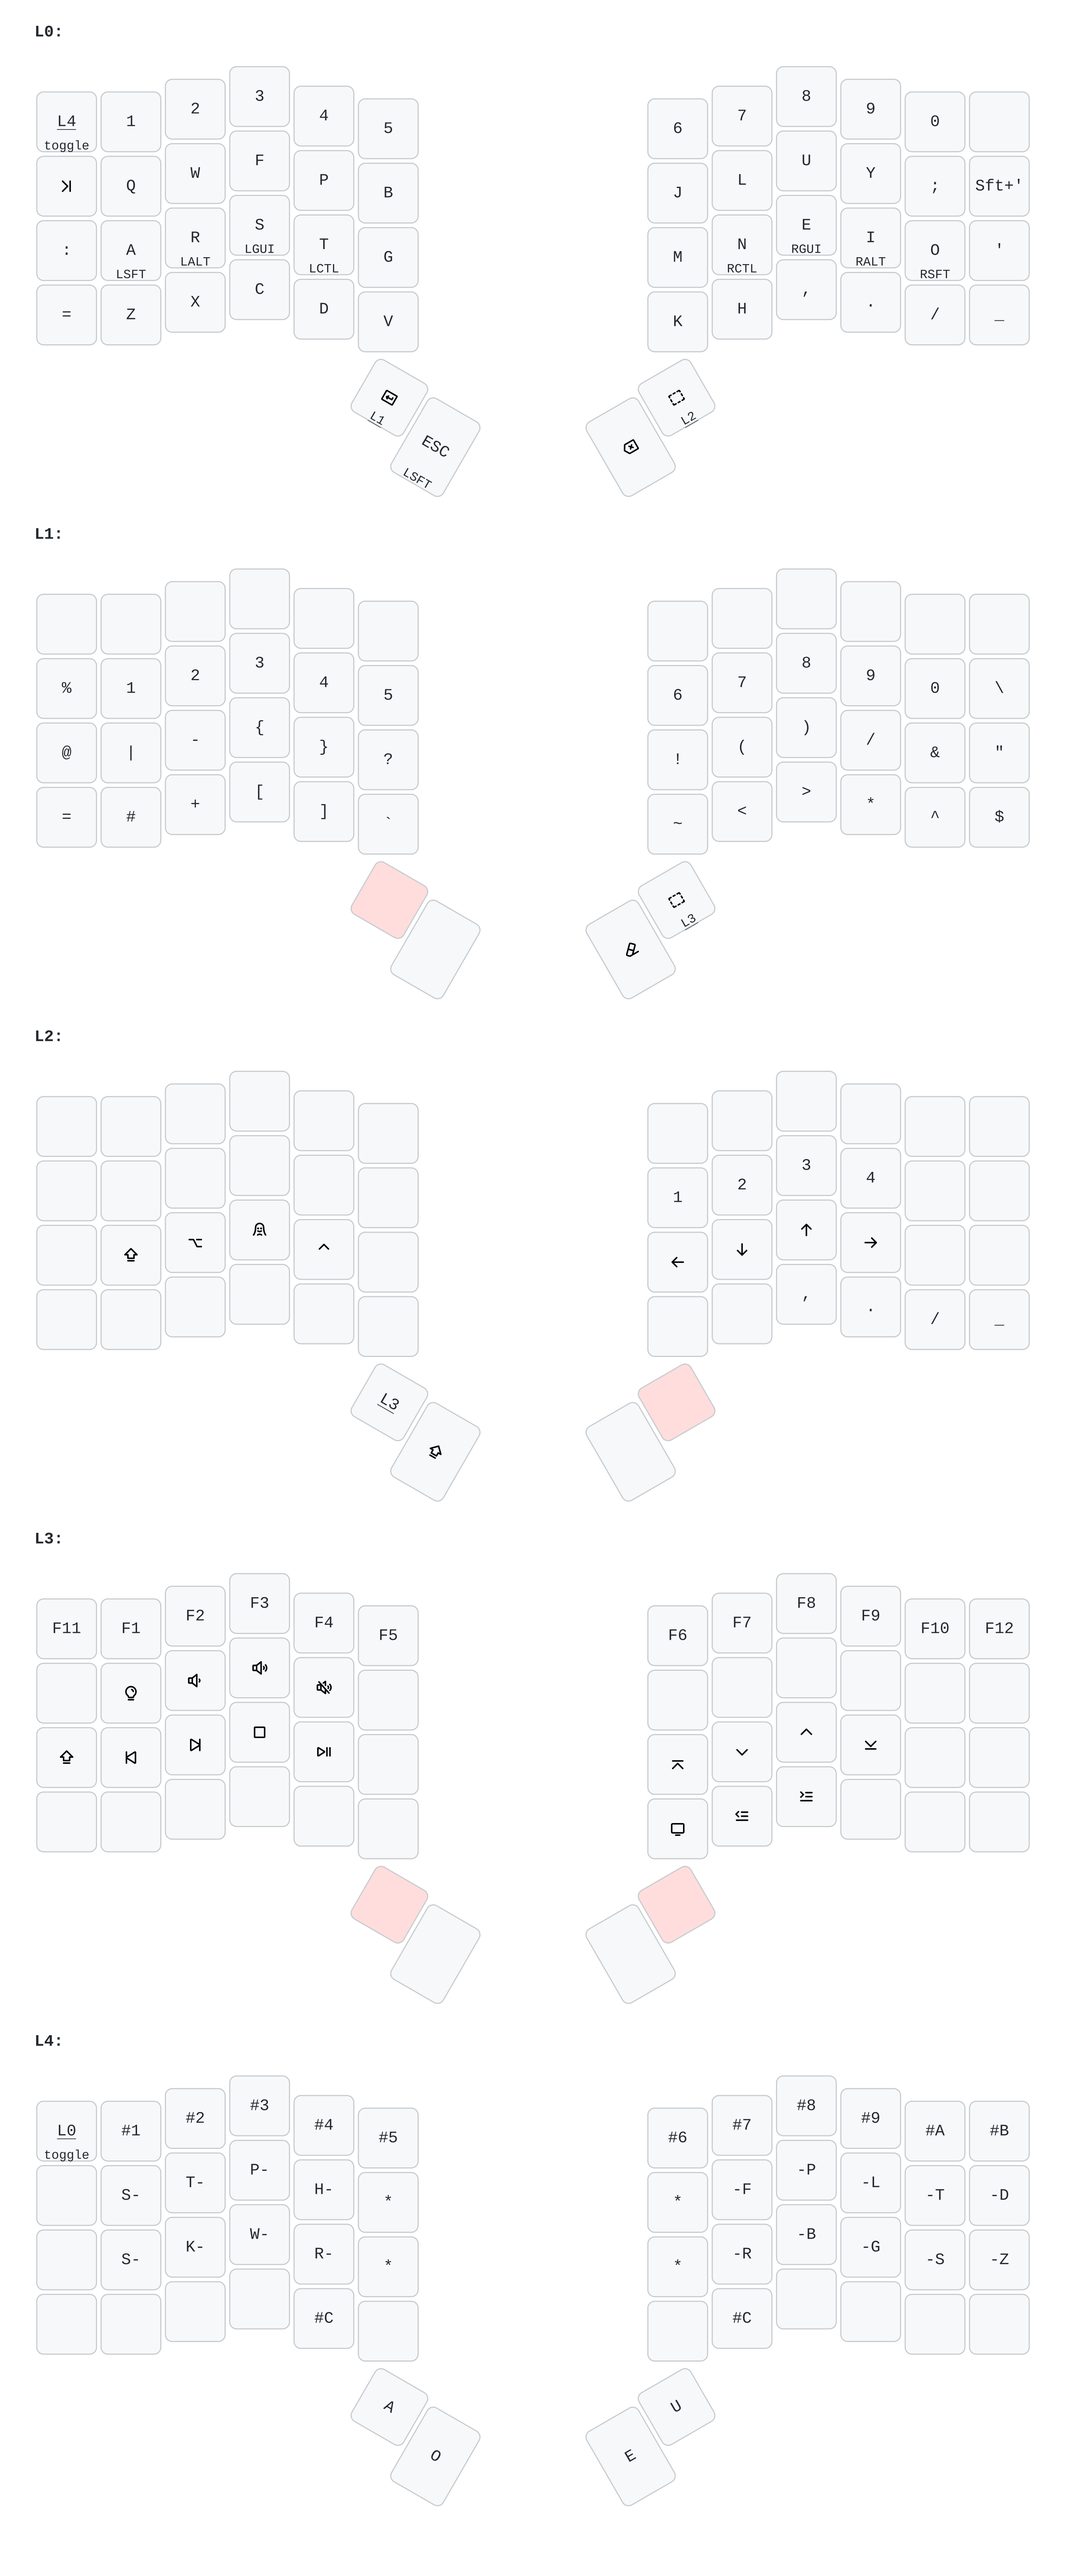
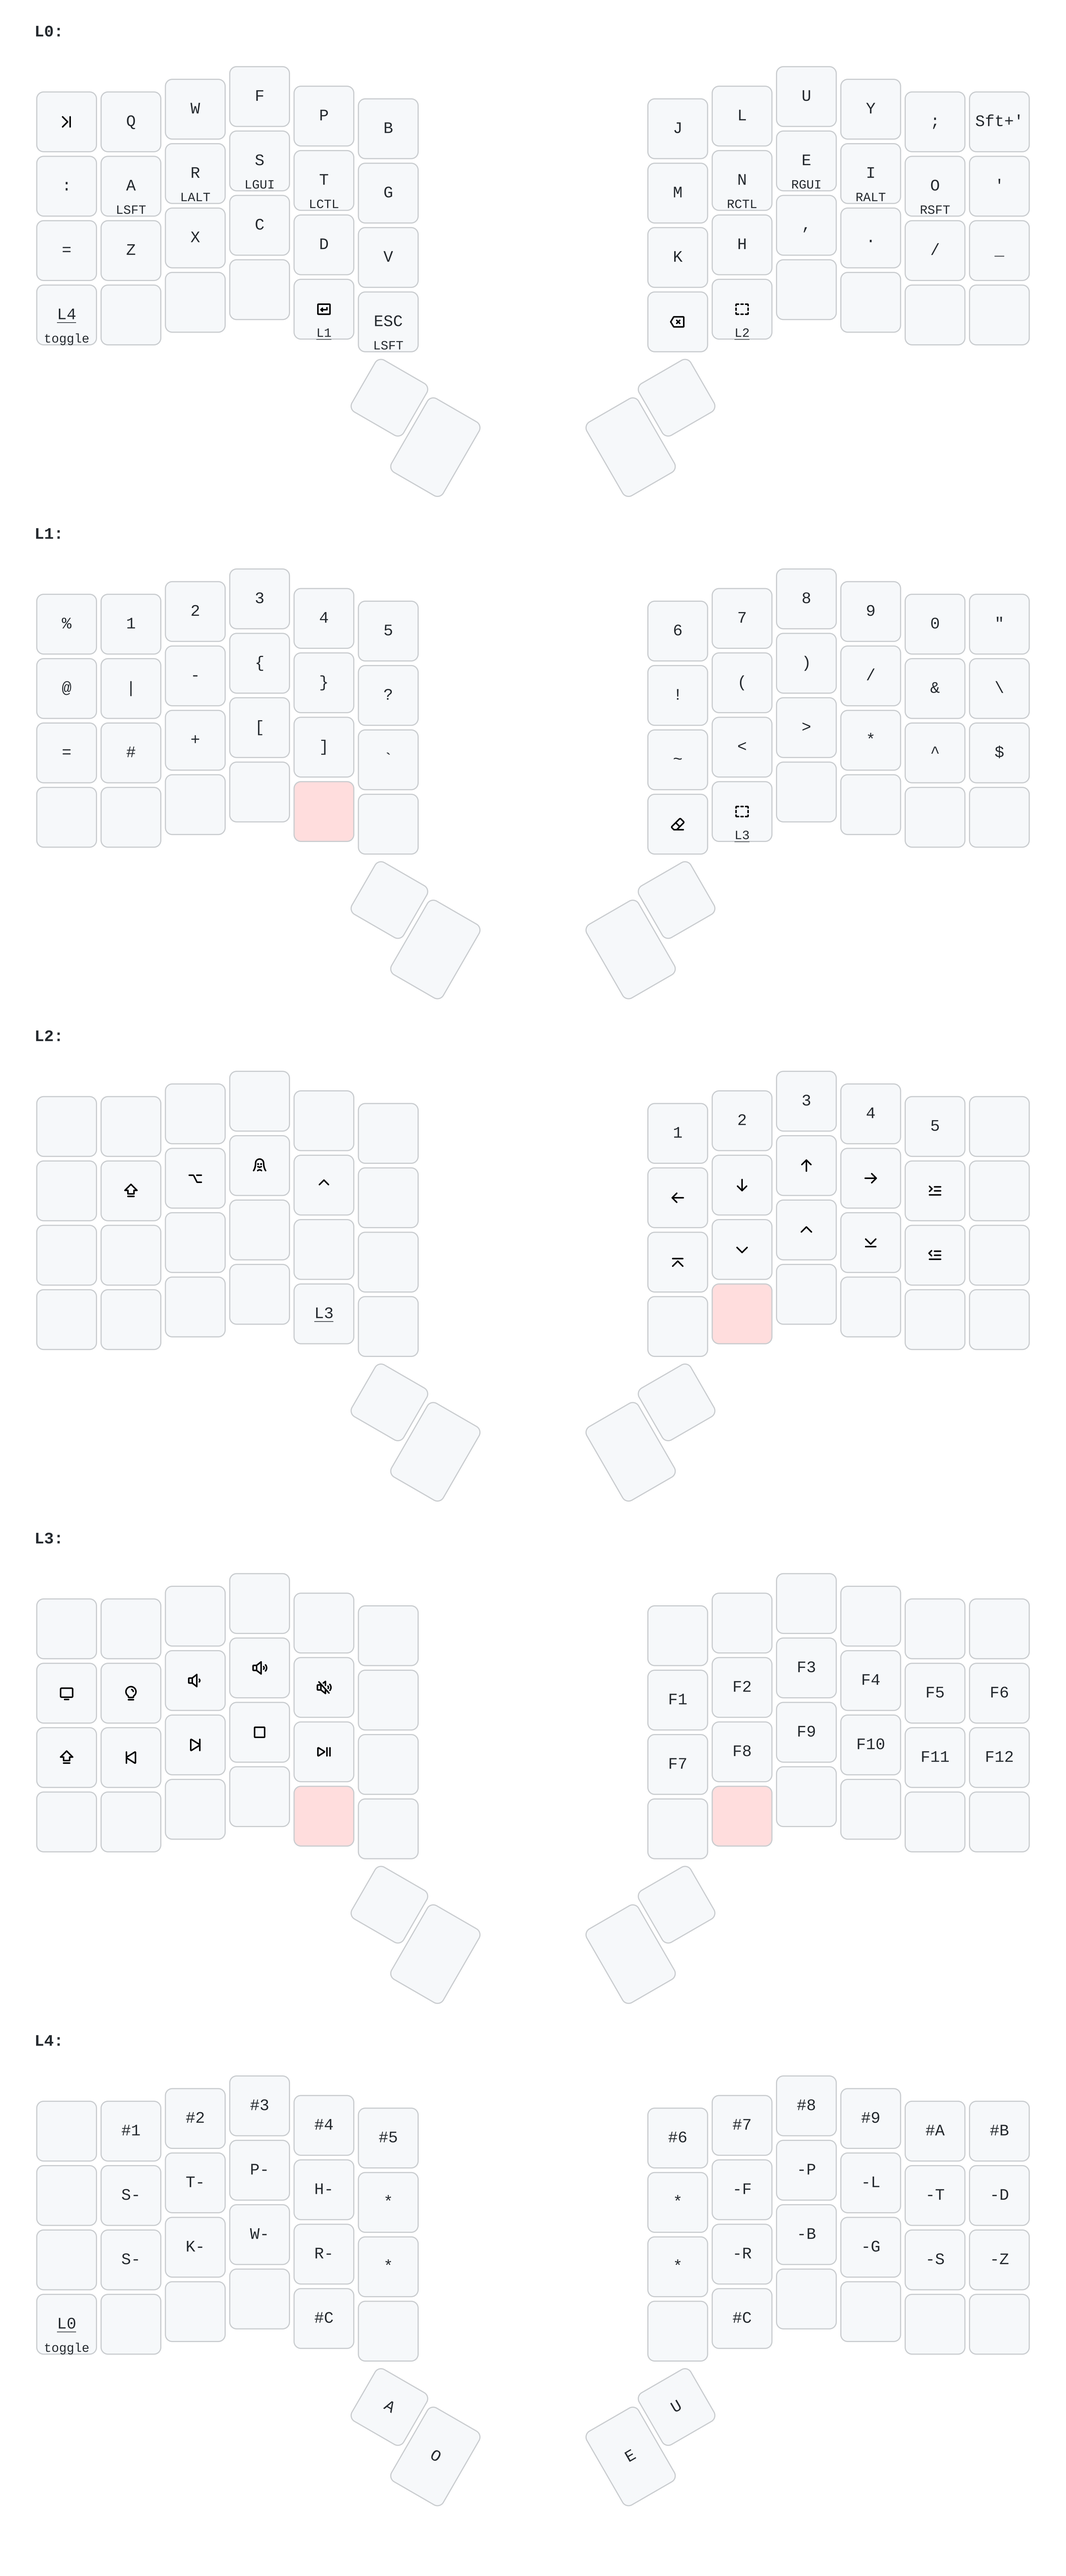
feat: move keys up to have more thumb keys

diff --git a/keyboards/zsa/voyager/keymaps/mine/keymap.c b/keyboards/zsa/voyager/keymaps/mine/keymap.c
@@ -14,42 +14,42 @@ enum Layer {
 // clang-format off
 const uint16_t PROGMEM keymaps[][MATRIX_ROWS][MATRIX_COLS] = {
 [MAIN] = LAYOUT(
-      TO(4)   , KC_1         , KC_2         , KC_3         , KC_4          , KC_5           ,     KC_6    , KC_7          , KC_8         , KC_9         , KC_0         , __        ,
       KC_TAB  , KC_Q         , KC_W         , KC_F         , KC_P          , KC_B           ,     KC_J    , KC_L          , KC_U         , KC_Y         , KC_SEMICOLON , S(KC_QUOT),
       KC_COLN , LSFT_T(KC_A) , LALT_T(KC_R) , LGUI_T(KC_S) , LCTL_T(KC_T)  , KC_G           ,     KC_M    , RCTL_T(KC_N)  , RGUI_T(KC_E) , RALT_T(KC_I) , RSFT_T(KC_O) , KC_QUOT   ,
       KC_EQL  , KC_Z         , KC_X         , KC_C         , KC_D          , KC_V           ,     KC_K    , KC_H          , KC_COMMA     , KC_DOT       , KC_SLSH      , KC_UNDS   ,
-                                                             LT(1, KC_ENT) , LSFT_T(KC_ESC) ,     KC_BSPC , LT(2, KC_SPC)
+      TO(4)   , __           , __           , __           , LT(1, KC_ENT) , LSFT_T(KC_ESC) ,     KC_BSPC , LT(2, KC_SPC) , __           , __           , __           , __        ,
+                                                             __            , __             ,     __      , __
 ),
 
 [SYMBOLS] = LAYOUT(
-      __      , __      , __      , __      , __      , __      ,     __      , __            , __      , __       , __      , __          ,
-      KC_PERC , KC_1    , KC_2    , KC_3    , KC_4    , KC_5    ,     KC_6    , KC_7          , KC_8    , KC_9     , KC_0    , KC_BACKSLASH,
-      KC_AT   , KC_PIPE , KC_MINS , KC_LCBR , KC_RCBR , KC_QUES ,     KC_EXLM , KC_LPRN       , KC_RPRN , KC_SLASH , KC_AMPR , KC_DQUO     ,
+      KC_PERC , KC_1    , KC_2    , KC_3    , KC_4    , KC_5    ,     KC_6    , KC_7          , KC_8    , KC_9     , KC_0    , KC_DQUO     ,
+      KC_AT   , KC_PIPE , KC_MINS , KC_LCBR , KC_RCBR , KC_QUES ,     KC_EXLM , KC_LPRN       , KC_RPRN , KC_SLASH , KC_AMPR , KC_BACKSLASH,
       KC_EQL  , KC_HASH , KC_PLUS , KC_LBRC , KC_RBRC , KC_GRV  ,     KC_TILD , KC_LABK       , KC_RABK , KC_ASTR  , KC_CIRC , KC_DLR      ,
-                                              __      , __      ,     KC_DEL  , LT(3, KC_SPC)
+      __      , __      , __      , __      , __      , __      ,     KC_DEL  , LT(3, KC_SPC) , __      , __       , __      , __          ,
+                                              __      , __      ,     __      , __
 ),
 
 [NAVIGATION] = LAYOUT(
-      __ , __      , __      , __      , __      , __      ,     __      , __      , __       , __       , __       , __     ,
-      __ , __      , __      , __      , __      , __      ,     KC_1    , KC_2    , KC_3     , KC_4     , __       , __     ,
-      __ , KC_LSFT , KC_LALT , KC_LGUI , KC_LCTL , __      ,     KC_LEFT , KC_DOWN , KC_UP    , KC_RIGHT , __       , __     ,
-      __ , __      , __      , __      , __      , __      ,     __      , __      , KC_COMMA , KC_DOT   , KC_SLASH , KC_UNDS,
-                                         MO(3)   , KC_LSFT ,     __      , __
+      __ , __      , __      , __      , __      , __ ,     KC_1    , KC_2    , KC_3    , KC_4     , KC_5         , __,
+      __ , KC_LSFT , KC_LALT , KC_LGUI , KC_LCTL , __ ,     KC_LEFT , KC_DOWN , KC_UP   , KC_RIGHT , C(S(KC_TAB)) , __,
+      __ , __      , __      , __      , __      , __ ,     KC_HOME , KC_PGDN , KC_PGUP , KC_END   , C(KC_TAB)    , __,
+      __ , __      , __      , __      , MO(3)   , __ ,     __      , __      , __      , __       , __           , __,
+                                         __      , __ ,     __      , __
 ),
 
 [EXTRA] = LAYOUT(
-      KC_F11  , KC_F1   , KC_F2   , KC_F3   , KC_F4   , KC_F5 ,     KC_F6           , KC_F7     , KC_F8        , KC_F9  , KC_F10 , KC_F12,
-      __      , RM_TOGG , KC_VOLD , KC_VOLU , KC_MUTE , __    ,     __              , __        , __           , __     , __     , __    ,
-      KC_LSFT , KC_MPRV , KC_MNXT , KC_MSTP , KC_MPLY , __    ,     KC_HOME         , KC_PGDN   , KC_PGUP      , KC_END , __     , __    ,
-      __      , __      , __      , __      , __      , __    ,     KC_PRINT_SCREEN , C(KC_TAB) , C(S(KC_TAB)) , __     , __     , __    ,
-                                              __      , __    ,     __              , __
+      __              , __      , __      , __      , __      , __ ,     __    , __    , __    , __     , __     , __    ,
+      KC_PRINT_SCREEN , RM_TOGG , KC_VOLD , KC_VOLU , KC_MUTE , __ ,     KC_F1 , KC_F2 , KC_F3 , KC_F4  , KC_F5  , KC_F6 ,
+      KC_LSFT         , KC_MPRV , KC_MNXT , KC_MSTP , KC_MPLY , __ ,     KC_F7 , KC_F8 , KC_F9 , KC_F10 , KC_F11 , KC_F12,
+      __              , __      , __      , __      , __      , __ ,     __    , __    , __    , __     , __     , __    ,
+                                                      __      , __ ,     __    , __
 ),
 
 [STENO] = LAYOUT(
-      TO(0) , STN_N1 , STN_N2 , STN_N3 , STN_N4 , STN_N5  ,     STN_N6  , STN_N7 , STN_N8 , STN_N9 , STN_NA , STN_NB,
+      __    , STN_N1 , STN_N2 , STN_N3 , STN_N4 , STN_N5  ,     STN_N6  , STN_N7 , STN_N8 , STN_N9 , STN_NA , STN_NB,
       __    , STN_S1 , STN_TL , STN_PL , STN_HL , STN_ST1 ,     STN_ST3 , STN_FR , STN_PR , STN_LR , STN_TR , STN_DR,
       __    , STN_S2 , STN_KL , STN_WL , STN_RL , STN_ST2 ,     STN_ST4 , STN_RR , STN_BR , STN_GR , STN_SR , STN_ZR,
-      __    , __     , __     , __     , STN_NC , __      ,     __      , STN_NC , __     , __     , __     , __    ,
+      TO(0) , __     , __     , __     , STN_NC , __      ,     __      , STN_NC , __     , __     , __     , __    ,
                                          STN_A  , STN_O   ,     STN_E   , STN_U
 )
 };

diff --git a/keyboards/zsa/voyager/keymaps/mine/chordal.c b/keyboards/zsa/voyager/keymaps/mine/chordal.c
@@ -5,10 +5,10 @@
 // clang-format off
 const char chordal_hold_layout[MATRIX_ROWS][MATRIX_COLS] PROGMEM =
   LAYOUT(
+  '*'    , 'L'    , 'L'    , 'L'    , 'L'    , 'L'    , 'R'    , 'R'    , 'R'    , 'R'    , 'R'    , '*'    ,
+  '*'    , 'L'    , 'L'    , 'L'    , 'L'    , 'L'    , 'R'    , 'R'    , 'R'    , 'R'    , 'R'    , '*'    ,
+  '*'    , 'L'    , 'L'    , 'L'    , 'L'    , 'L'    , 'R'    , 'R'    , 'R'    , 'R'    , 'R'    , '*'    ,
   '*'    , '*'    , '*'    , '*'    , '*'    , '*'    , '*'    , '*'    , '*'    , '*'    , '*'    , '*'    ,
-  '*'    , 'L'    , 'L'    , 'L'    , 'L'    , 'L'    , 'R'    , 'R'    , 'R'    , 'R'    , 'R'    , '*'    ,
-  '*'    , 'L'    , 'L'    , 'L'    , 'L'    , 'L'    , 'R'    , 'R'    , 'R'    , 'R'    , 'R'    , '*'    ,
-  '*'    , 'L'    , 'L'    , 'L'    , 'L'    , 'L'    , 'R'    , 'R'    , 'R'    , 'R'    , 'R'    , '*'    ,
                                       '*'    , '*'    , '*'    , '*'
 );
 // clang-format on
